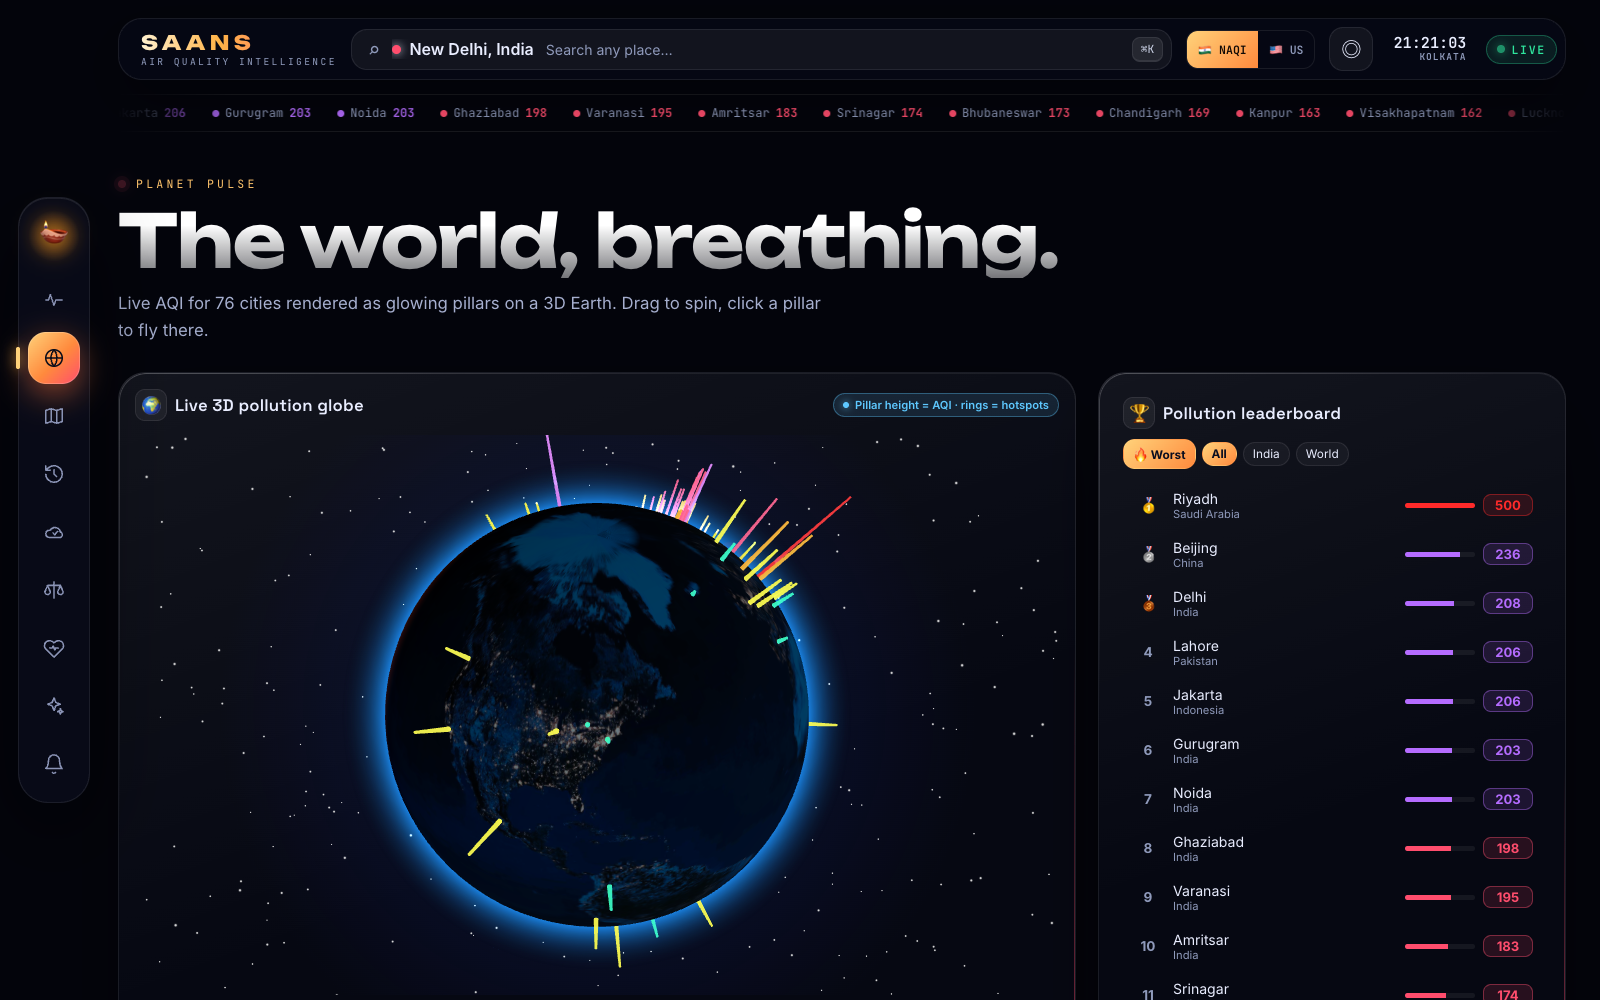
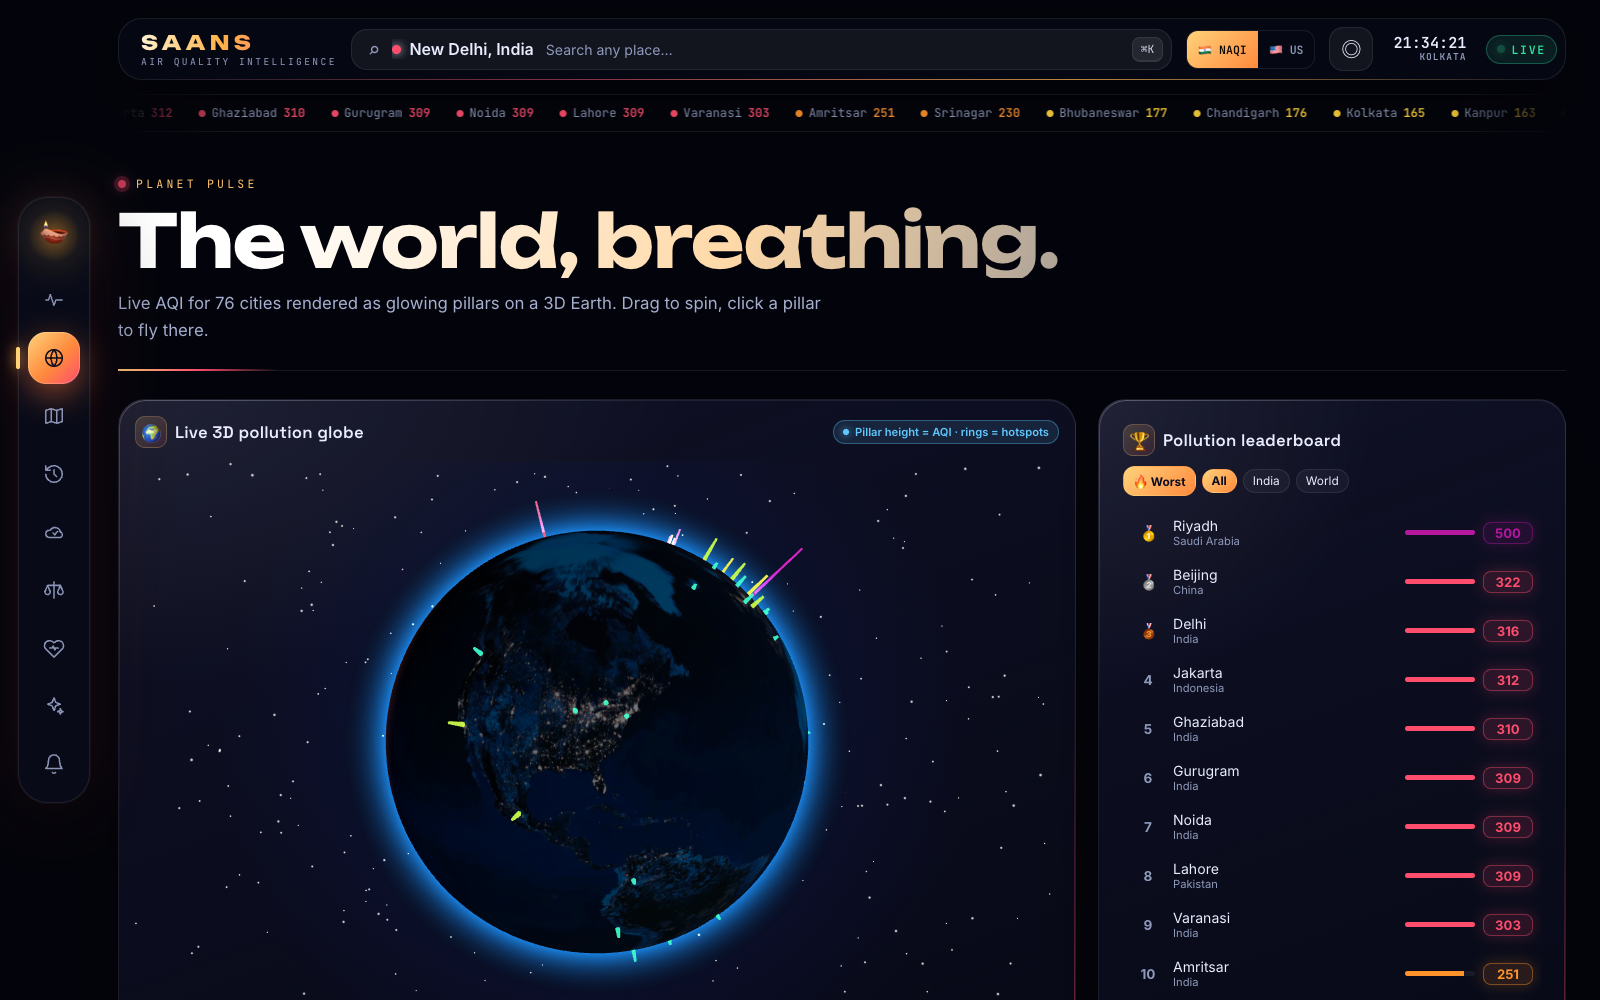
Polish spark labels, refresh screenshots

diff --git a/src/components/Dashboard.jsx b/src/components/Dashboard.jsx
@@ -55,7 +55,7 @@ function Spark({ aq }) {
       <text x={P} y="16" className="spark-t mut">−24h · modelled</text>
       <text x={W - P} y="16" textAnchor="end" className="spark-t mut">+24h · forecast</text>
       <circle cx={x(peak.t)} cy={y(peak.us_aqi)} r="4" fill={category(peak.us_aqi).color} />
-      <text x={Math.min(W - 60, x(peak.t) + 6)} y={y(peak.us_aqi) - 8} className="spark-t">peak {peak.us_aqi}</text>
+      <text x={Math.min(W - 70, x(peak.t) + 6)} y={y(peak.us_aqi) < 34 ? y(peak.us_aqi) + 18 : y(peak.us_aqi) - 8} textAnchor={x(peak.t) > W - 80 ? 'end' : 'start'} className="spark-t">peak {peak.us_aqi}</text>
     </svg>
   )
 }
